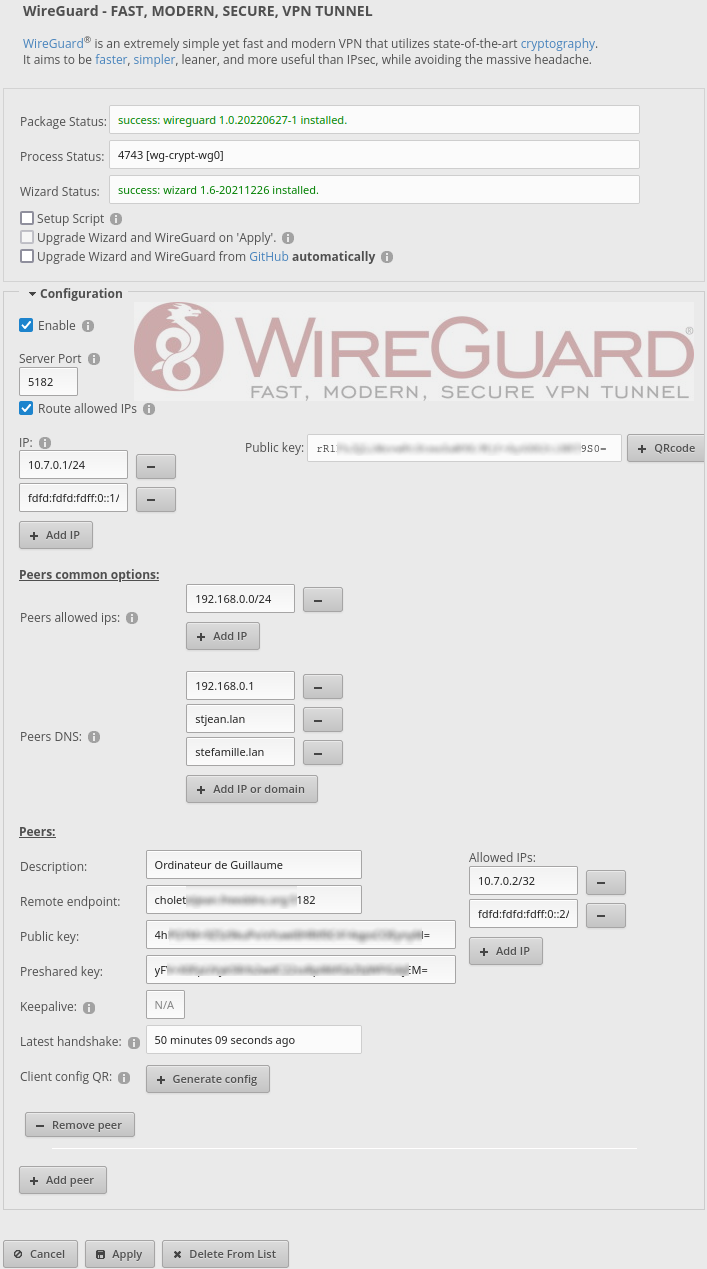
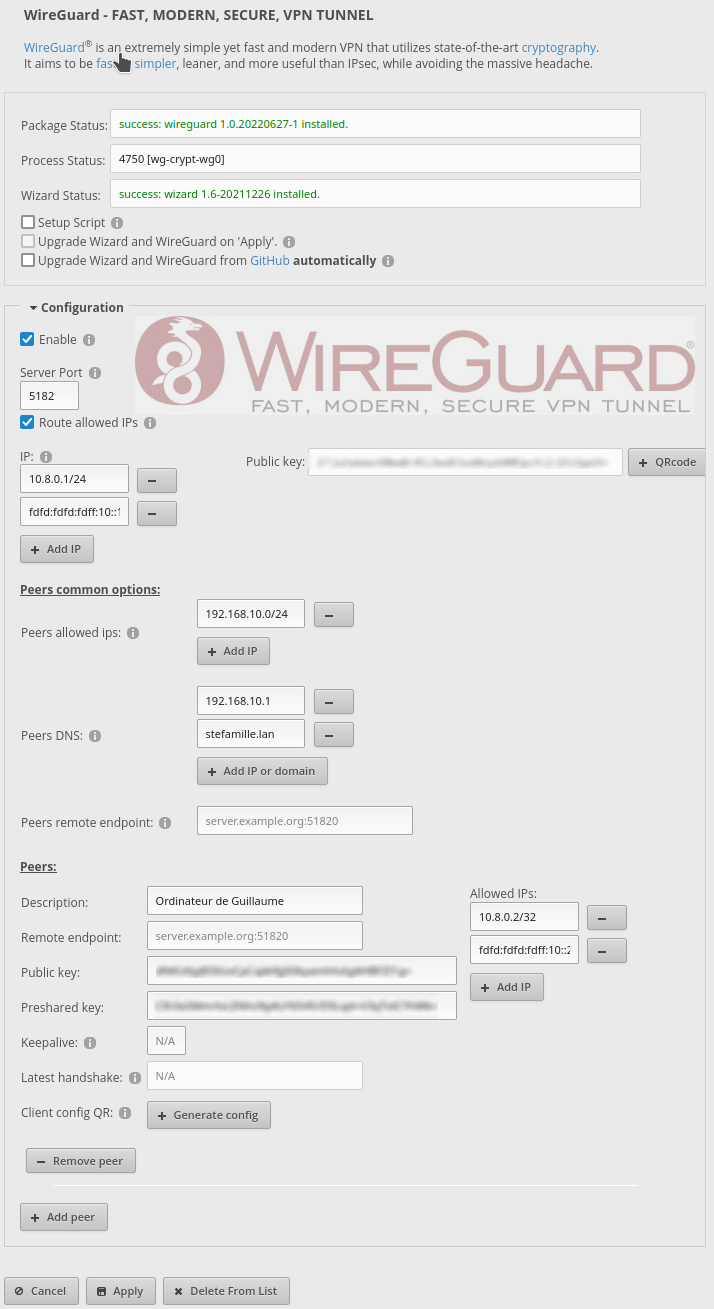
Add endpoint in peers common options, for QR code generation

diff --git a/wizard.html b/wizard.html
@@ -142,6 +142,10 @@ td#allowedips {
             <button type="button" class="addable-add">Add IP or domain</button>
         </div>
     </div></td>
+    </tr><tr><td>&nbsp;</td><td>&nbsp;</td></tr><tr>
+    <td><div><span class="text" data-infotip="Remote server address with port from peers point of view, for QR code (optional).">Peers remote endpoint: </span></td><td>
+        <input name="peers-endpoint" id="peers-endpoint" size="30" placeholder="server.example.org:51820" title="Remote server address with port" /></td>
+    </div></td>
     </tr><tr>
     <td><div class="clear"><br></div></td><td><div class="clear"><br></div></td>
     </tr></table>
@@ -285,9 +289,8 @@ async function toggleQRclientconf() {
         }
         peersdns += node.value;
     }
-    // A revoir par peernumber
     var persistentkeepalive = "";
-    var endpoint = "";
+    var endpoint = document.getElementById('peers-endpoint').value;
     var address = "";
     var config = "";
     var myfield1 = document.getElementsByName("public-key" + peernumber);
@@ -327,7 +330,6 @@ async function toggleQRclientconf() {
             }
         }
         persistentkeepalive = document.getElementsByName('persistent-keepalive' + peernumber)[0].value;
-        endpoint = document.getElementsByName('endpoint' + peernumber)[0].value;
         while (myfield2) {
             myfield2 = myfield2.parentNode;
             if (myfield2.tagName.toLowerCase() === 'div' && myfield2.className.toLowerCase() === 'multi') {
